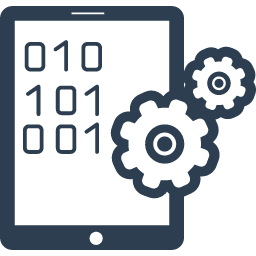
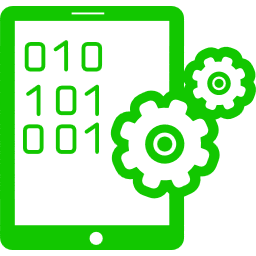
fb design changed to app design first version

diff --git a/fb.html b/fb.html
@@ -22,6 +22,7 @@
 
     <!-- Custom CSS -->
     <link href="css/freelancer.css" rel="stylesheet">
+    <link href="css/fb.css" rel="stylesheet">
 
     <!-- Custom Fonts -->
     <link href="font-awesome/css/font-awesome.min.css" rel="stylesheet" type="text/css">
@@ -61,11 +62,11 @@
 
 
 <!-- Navigation -->
-<nav class="navbar navbar-default navbar-fixed-top">
+<nav class="navbar navbar-green navbar-fixed-top">
     <div class="container">
         <!-- Brand and toggle get grouped for better mobile display -->
 
-          <a href="#/">  <img class="img-responsive" src="img/streetlife.png" alt=""></a>
+          <a href="#/">  <img class="img-responsive" src="img/streetlife-logo.png" alt=""></a>
 
         </div>
 
@@ -97,7 +98,7 @@
         <div class="row">
             <div class="col-lg-12 text-center">
                 <h3>Verbinde Streetlife mit deinem Facebook Profil</h3>
-                <hr class="star-primary">
+
             </div>
         </div>
         <div class="row">
@@ -128,7 +129,7 @@
     <div class="row">
         <div class="col-lg-12 text-center">
             <h3>Streetlife erfolgreich mit Facebook verbunden</h3>
-            <hr class="star-primary">
+
         </div>
 
         <div id="loggedInText" class="row">

diff --git a/css/fb.css b/css/fb.css
@@ -1,0 +1,38 @@
+body{
+    font-family: RobotoDraft, 'Helvetica Neue', Helvetica, Arial !important;
+    background: white;
+    color: black;
+}
+.navbar-default .navbar-nav>li>a:hover{
+    color: #FFEB3B;
+
+}
+.navbar-default .navbar-nav>li>a:hover, .navbar-default .navbar-nav>li>a:focus {
+    color: #FFEB3B;
+    background-color: transparent;
+}
+.floating-label-form-group-with-focus label {
+    color: #FFEB3B;
+}
+header
+{
+    background:  white;
+}
+
+a, a:hover, a:focus, a:active, a.active {
+    outline: 0;
+    color:  #FFEB3B;
+}
+
+.footer-below
+{
+    background-color: #12C700;
+}
+footer .footer-below {
+    padding: 25px 0;
+    background-color: #12C700;
+}
+footer .footer-above {
+    padding: 25px 0;
+    background-color: white;
+}

diff --git a/js/facebook.js b/js/facebook.js
@@ -12,6 +12,7 @@ $( document ).ready(function() {
 });
 
 var FACEBOOK_APP_ID = '927583730682087';
+var URL_BACKEND = "http://10.147.67.75:8080/api-rest/facebook/saveaccesstoken";
 var shortTermAccessToken;
 var deviceId;
 
@@ -48,10 +49,11 @@ function getQueryVariable(variable) {
     console.log(deviceId);
 
     $.get(
-        "http://10.147.67.75:8080/api-rest/facebook/saveaccesstoken",
+        URL_BACKEND,
         {"deviceid" : deviceId, "fb_userid" : userId,"fb_shortaccesstoken":shortTermAccessToken},
         function(data) {
-            alert('page content: ' + data);
+            console.log("Message from Backend:");
+            console.log(data);
         }
     );
 

diff --git a/css/freelancer.css b/css/freelancer.css
@@ -468,6 +468,13 @@ footer .facebook {
 {
     background-color: white;
 }
+
+.navbar-green
+{
+    background-color: #12C700;
+}
+
+
 .navbar-default .navbar-nav>li>a {
     color: #808080;
 }
